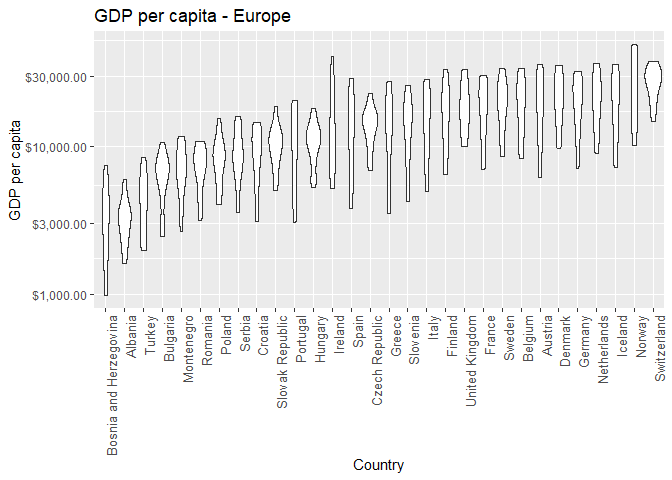
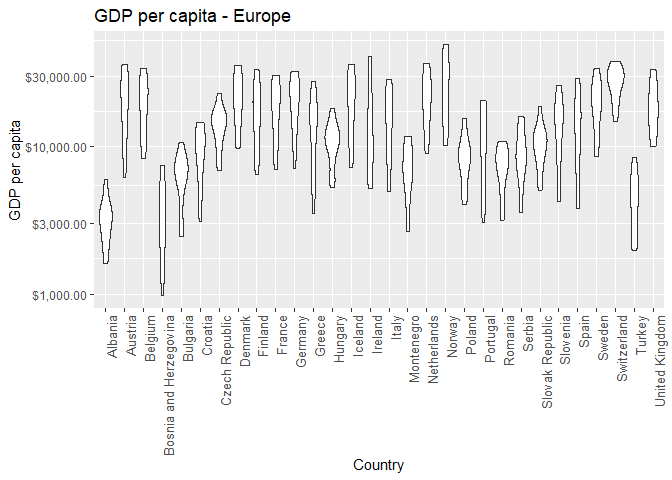
interim

diff --git a/hw05-lsloboda.md b/hw05-lsloboda.md
@@ -138,7 +138,7 @@ Oceania has now disappeared from the continent list. Further, we see that the fa
 
 Also, when manipulating a data set through filters, it is advantageous to create a new variable for the manipulated data in order to refer to it in the future and maintain the integrity of the original data set.
 
-Next we will create a principled summary of the data based on the quantitative variable *gdpPercap*. We want to evaluate the rank of countries in Europe based on gdpPercap. We will start by evaluating the data as is, using the structure, a table and a plot:
+Next we will create a principled summary of the data based on the quantitative variable *gdpPercap*. We want to evaluate the rank of countries in Europe based on *gdpPercap*. We will start by evaluating the data as is, by observing the structure, a table and a plot:
 
 ``` r
 Europe_gdp <- gapminder %>% 
@@ -155,20 +155,7 @@ Europe_gdp %>%
     ##  $ gdpPercap: num  1601 1942 2313 2760 3313 ...
     ##  $ year     : int  1952 1957 1962 1967 1972 1977 1982 1987 1992 1997 ...
 
-``` r
-Europe_gdp %>% 
-  head() %>% 
-  kable()
-```
-
-| continent | country |  gdpPercap|  year|
-|:----------|:--------|----------:|-----:|
-| Europe    | Albania |   1601.056|  1952|
-| Europe    | Albania |   1942.284|  1957|
-| Europe    | Albania |   2312.889|  1962|
-| Europe    | Albania |   2760.197|  1967|
-| Europe    | Albania |   3313.422|  1972|
-| Europe    | Albania |   3533.004|  1977|
+The structure shows that we have 360 rows and 4 columns of data. All levels are currently present for all factors.
 
 ``` r
 Europe_gdp %>% 
@@ -180,9 +167,9 @@ Europe_gdp %>%
   theme(axis.text.x = element_text(angle = 90, hjust = 1, size = 10))  #Rotate x labels
 ```
 
-![](hw05-lsloboda_files/figure-markdown_github/unnamed-chunk-6-1.png)
+![](hw05-lsloboda_files/figure-markdown_github/unnamed-chunk-7-1.png)
 
-Plotting the data directly doesn't provide any insight into a correlation between these two variables. We will next *arrange* by gdpPerCap to see whether this has an effect on the table and plot:
+The plot doesn't provide any insight into the rank of countries with respect to *gdpPercap* in it's current state. We will next *arrange* by *gdpPerCap* to see whether this has an effect on the table and plot:
 
 ``` r
 Europe_gdp_arr <- Europe_gdp %>% 
@@ -198,12 +185,29 @@ Europe_gdp_arr %>%
     ##  $ gdpPercap: num  974 1354 1601 1710 1942 ...
     ##  $ year     : int  1952 1957 1952 1962 1957 1952 1967 1957 1962 1962 ...
 
+The structure was not affected by *arrange*.
+
 ``` r
-Europe_gdp_arr %>% 
-  head() %>% 
-  kable()
+kable(
+  list(head(Europe_gdp), head(Europe_gdp_arr))
+  )
 ```
 
+<table class="kable_wrapper">
+<tbody>
+<tr>
+<td>
+| continent | country |  gdpPercap|  year|
+|:----------|:--------|----------:|-----:|
+| Europe    | Albania |   1601.056|  1952|
+| Europe    | Albania |   1942.284|  1957|
+| Europe    | Albania |   2312.889|  1962|
+| Europe    | Albania |   2760.197|  1967|
+| Europe    | Albania |   3313.422|  1972|
+| Europe    | Albania |   3533.004|  1977|
+
+</td>
+<td>
 | continent | country                |  gdpPercap|  year|
 |:----------|:-----------------------|----------:|-----:|
 | Europe    | Bosnia and Herzegovina |   973.5332|  1952|
@@ -213,6 +217,10 @@ Europe_gdp_arr %>%
 | Europe    | Albania                |  1942.2842|  1957|
 | Europe    | Turkey                 |  1969.1010|  1952|
 
+</td>
+</tr>
+</tbody>
+</table>
 ``` r
 Europe_gdp_arr %>% 
   ggplot(aes(country, gdpPercap)) + 
@@ -223,9 +231,9 @@ Europe_gdp_arr %>%
   theme(axis.text.x = element_text(angle = 90, hjust = 1, size = 10))  #Rotate x labels
 ```
 
-![](hw05-lsloboda_files/figure-markdown_github/unnamed-chunk-7-1.png)
+![](hw05-lsloboda_files/figure-markdown_github/unnamed-chunk-9-1.png)
 
-We observe the *arrange* did not affect the structure or the plot, however the table output is clearly different. Next we will evaluate the effect of using the *forcats* package to re-order the data:
+The tables are useful for capturing exact values from the data. We can observe the difference between the "as is" data on the left versus the arranged data on the right. Therefore, the *arrange* functions did not affect the structure or the plot, however the table output is clearly different. Next we will evaluate the effect of using the *forcats* package to re-order the data:
 
 ``` r
 Europe_gdp %>% 
@@ -237,9 +245,9 @@ Europe_gdp %>%
   theme(axis.text.x = element_text(angle = 90, hjust = 1, size = 10))  #Rotate x labels
 ```
 
-![](hw05-lsloboda_files/figure-markdown_github/unnamed-chunk-8-1.png)
+![](hw05-lsloboda_files/figure-markdown_github/unnamed-chunk-10-1.png)
 
-We observe that *fct\_reorder* does affect the plot, as it now shows countries in order of ascending median GDP per capita. Finally, we will examine the effect of combining *arrange* and *fct\_reorder*:
+We observe that *fct\_reorder* does affect the plot, as it now shows countries in order of ascending median GDP per capita. Lastly, we will examine the effect of combining *arrange* and *fct\_reorder*:
 
 ``` r
 Europe_gdp_arr %>% 
@@ -251,14 +259,12 @@ Europe_gdp_arr %>%
   theme(axis.text.x = element_text(angle = 90, hjust = 1, size = 10))  #Rotate x labels
 ```
 
-![](hw05-lsloboda_files/figure-markdown_github/unnamed-chunk-9-1.png)
+![](hw05-lsloboda_files/figure-markdown_github/unnamed-chunk-11-1.png)
 
-Thus, coupling *arrange* and *fct\_reorder* allows us to manipulate the structure, table and plot, so it is more comprehensive to use both commands if all three types of output are desired.
+Using the arranged data inside the re-ordered plot gave the same result as using the regular data with the re-ordered plot. However, we also know that *arrange* affects the table output. Thus, coupling *arrange* and *fct\_reorder* allows us to manipulate the table and plot, so it is more comprehensive to use both commands if both types of output are desired.
 
 Part 2 - File I/O
 -----------------
-
-Experiment with one or more of write\_csv()/read\_csv() (and/or TSV friends), saveRDS()/readRDS(), dput()/dget(). Create something new, probably by filtering or grouped-summarization of Singer or Gapminder. I highly recommend you fiddle with the factor levels, i.e. make them non-alphabetical (see previous section). Explore whether this survives the round trip of writing to file then reading back in.
 
 ### Method
 
@@ -266,8 +272,11 @@ Experiment with one or more of write\_csv()/read\_csv() (and/or TSV friends), sa
 -   Arrange the data set
 -   Write to file
 -   Read from file
+-   Check the arrangement of the data
 
 ### Code
+
+First, we will examine a sample of the data "as is". Then, we will *arrange* the data according to mean GDP per capita and compare:
 
 ``` r
 gapminder_lifeExp <- gapminder %>% 
@@ -275,11 +284,18 @@ gapminder_lifeExp <- gapminder %>%
   group_by(continent, year) %>% 
   summarise(mean_gdp = mean(lifeExp))
 
-gapminder_lifeExp %>% 
-  head() %>% 
-  kable()
+gapminder_lifeExp_arr <- gapminder_lifeExp %>% 
+  arrange(mean_gdp)
+
+kable(
+  list(head(gapminder_lifeExp), head(gapminder_lifeExp_arr))
+  )
 ```
 
+<table class="kable_wrapper">
+<tbody>
+<tr>
+<td>
 | continent |  year|  mean\_gdp|
 |:----------|-----:|----------:|
 | Africa    |  1952|   39.13550|
@@ -289,15 +305,8 @@ gapminder_lifeExp %>%
 | Africa    |  1972|   47.45094|
 | Africa    |  1977|   49.58042|
 
-``` r
-gapminder_lifeExp_arr <- gapminder_lifeExp %>% 
-  arrange(mean_gdp)
-
-gapminder_lifeExp_arr %>% 
-  head() %>% 
-  kable()
-```
-
+</td>
+<td>
 | continent |  year|  mean\_gdp|
 |:----------|-----:|----------:|
 | Africa    |  1952|   39.13550|
@@ -307,14 +316,16 @@ gapminder_lifeExp_arr %>%
 | Asia      |  1952|   46.31439|
 | Africa    |  1972|   47.45094|
 
-We observe the difference between the tables after the *arrange* function has been applied. Now we will test if the arrangment is preserved after writing and reading to a file:
+</td>
+</tr>
+</tbody>
+</table>
+The original data is shown on the left while the arranged data is shown on the right. We observe the difference in values and will use these tables to determine whether the *csv* file preserves the arrangement or reverts to the original order:
 
 ``` r
 write_csv(gapminder_lifeExp_arr, "gapminder_lifeExp_arr.csv")
 
-read_csv("gapminder_lifeExp_arr.csv") %>% 
-  head() %>% 
-  kable()
+read_csv("gapminder_lifeExp_arr.csv")
 ```
 
     ## Parsed with column specification:
@@ -324,6 +335,51 @@ read_csv("gapminder_lifeExp_arr.csv") %>%
     ##   mean_gdp = col_double()
     ## )
 
+    ## # A tibble: 60 x 3
+    ##    continent  year mean_gdp
+    ##    <chr>     <int>    <dbl>
+    ##  1 Africa     1952     39.1
+    ##  2 Africa     1957     41.3
+    ##  3 Africa     1962     43.3
+    ##  4 Africa     1967     45.3
+    ##  5 Asia       1952     46.3
+    ##  6 Africa     1972     47.5
+    ##  7 Asia       1957     49.3
+    ##  8 Africa     1977     49.6
+    ##  9 Asia       1962     51.6
+    ## 10 Africa     1982     51.6
+    ## # ... with 50 more rows
+
+``` r
+kable(
+  list(head(gapminder_lifeExp), 
+       head(gapminder_lifeExp_arr), 
+       head(read_csv("gapminder_lifeExp_arr.csv")))
+  )
+```
+
+    ## Parsed with column specification:
+    ## cols(
+    ##   continent = col_character(),
+    ##   year = col_integer(),
+    ##   mean_gdp = col_double()
+    ## )
+
+<table class="kable_wrapper">
+<tbody>
+<tr>
+<td>
+| continent |  year|  mean\_gdp|
+|:----------|-----:|----------:|
+| Africa    |  1952|   39.13550|
+| Africa    |  1957|   41.26635|
+| Africa    |  1962|   43.31944|
+| Africa    |  1967|   45.33454|
+| Africa    |  1972|   47.45094|
+| Africa    |  1977|   49.58042|
+
+</td>
+<td>
 | continent |  year|  mean\_gdp|
 |:----------|-----:|----------:|
 | Africa    |  1952|   39.13550|
@@ -333,12 +389,27 @@ read_csv("gapminder_lifeExp_arr.csv") %>%
 | Asia      |  1952|   46.31439|
 | Africa    |  1972|   47.45094|
 
-The new arrangement of the data was preserved, therefore we learned that *arrange* can be used to manipulate tables that are written externally to files, in addition to tables internally within the R environment, as we learned in the previous section.
+</td>
+<td>
+| continent |  year|  mean\_gdp|
+|:----------|-----:|----------:|
+| Africa    |  1952|   39.13550|
+| Africa    |  1957|   41.26635|
+| Africa    |  1962|   43.31944|
+| Africa    |  1967|   45.33454|
+| Asia      |  1952|   46.31439|
+| Africa    |  1972|   47.45094|
+
+</td>
+</tr>
+</tbody>
+</table>
+The new table, shown on the far right, matches the second table which represented the arranged data. Therefore, we learned that *arrange* can be used to manipulate tables that are written externally to files. This is a powerful technique for manipulating data, as it is much more convinient to sort data using R than to sort it manually in a *csv*.
 
 Part 3 - Visualization Design
 -----------------------------
 
-Next I will improve my first plot using techniques from visualization design to enhance the appearance and readability. My first plot looked like this:
+Next I will improve the plot from Part 1 by using visualization design techniques to enhance the appearance and readability. As a reminder, my first plot looked like this:
 
 ``` r
 Europe_gdp_arr %>% 
@@ -350,11 +421,9 @@ Europe_gdp_arr %>%
   theme(axis.text.x = element_text(angle = 90, hjust = 1, size = 10))  #Rotate x labels
 ```
 
-![](hw05-lsloboda_files/figure-markdown_github/unnamed-chunk-12-1.png)
+![](hw05-lsloboda_files/figure-markdown_github/unnamed-chunk-14-1.png)
 
-I applied a few different techniques from class to improve the plot visually: \* Changing the scale to *dollar\_format()* \* Using the *black & white* theme \* Eliminating the unnecessary borders on the top and right side of the plot \* Centering the title \* Applying a continuous colour scheme to visually separate the countries by colour \* Removing the legend that is generated from applying the colour scheme
-
-Overall, I believe that the plot is visually easier to read and more appealing to the viewer, due to the removal of unnecessary features and the addition of colour:
+I will apply a few different techniques from class to improve the plot visually: \* Changing the scale to *dollar\_format()* \* Using the *black & white* theme \* Eliminating the unnecessary borders on the top and right side of the plot \* Centering the title \* Applying a continuous colour scheme to visually separate the countries by colour \* Removing the legend that is generated from applying the colour scheme
 
 ``` r
 Europe_gdp_plot <- Europe_gdp_arr %>% 
@@ -375,14 +444,18 @@ Europe_gdp_plot <- Europe_gdp_arr %>%
 Europe_gdp_plot
 ```
 
-![](hw05-lsloboda_files/figure-markdown_github/unnamed-chunk-13-1.png)
+![](hw05-lsloboda_files/figure-markdown_github/unnamed-chunk-15-1.png)
 
-Then, we will convert this plot into a *plotly* plot using the porting function in *ggplotly*:
+Overall, I believe that the plot is visually easier to read and more appealing to the viewer, due to the removal of unnecessary features and the addition of colour to separate the countries.
+
+Next, we will convert this plot into a *plotly* plot using the porting function in *ggplotly*:
 
 ``` r
 #Europe_gdp_plot %>% 
  # ggplotly()
 ```
+
+To reduce the file size in Github, the output image can be viewed ~[here](https://github.com/STAT545-UBC-students/hw05-lsloboda).
 
 The biggest advantage that I can glean from using *plotly* is the ability to read data point values using the cursor. By mousing over any location on the graph, it is possible to see the exact (x,y) coordinates. The conversion also added the legend back in, but the rest of the formatting was preserved. The overal aesthetic is slightly cleaner and crisper than the \*\*ggplot\* plot. I believe this is due to the change in font and crisper borders.
 
@@ -401,14 +474,14 @@ The biggest advantage that I can glean from using *plotly* is the ability to rea
   #htmlwidgets::saveWidget("plotly.html"
 ```
 
+To reduce the file size in Github, the output image can be viewed ~[here](https://github.com/STAT545-UBC-students/hw05-lsloboda).
+
+*Plotly* opens us many possibilities for making data more interactive. It allows plots to be easily embedded on webpages and allows you to explore many new visualizations options that can help to reveal correlations in the data.
+
 Part 4 - Writing figures to file
 --------------------------------
 
-Use ggsave() to explicitly save a plot to file. Then use dfdf to load and embed it in your report. You can play around with various options, such as:
-
-Arguments of ggsave(), such as width, height, resolution or text scaling. Various graphics devices, e.g. a vector vs. raster format. Explicit provision of the plot object p via ggsave(..., plot = p). Show a situation in which this actually matters.
-
-Finally, we will save the plot as a *png* image.
+Finally, we will save the plot as a *png* image:
 
 ``` r
 ggsave("Europe_gdp_plot.png", plot = Europe_gdp_plot, width = 18, height = 8, units = "cm")
